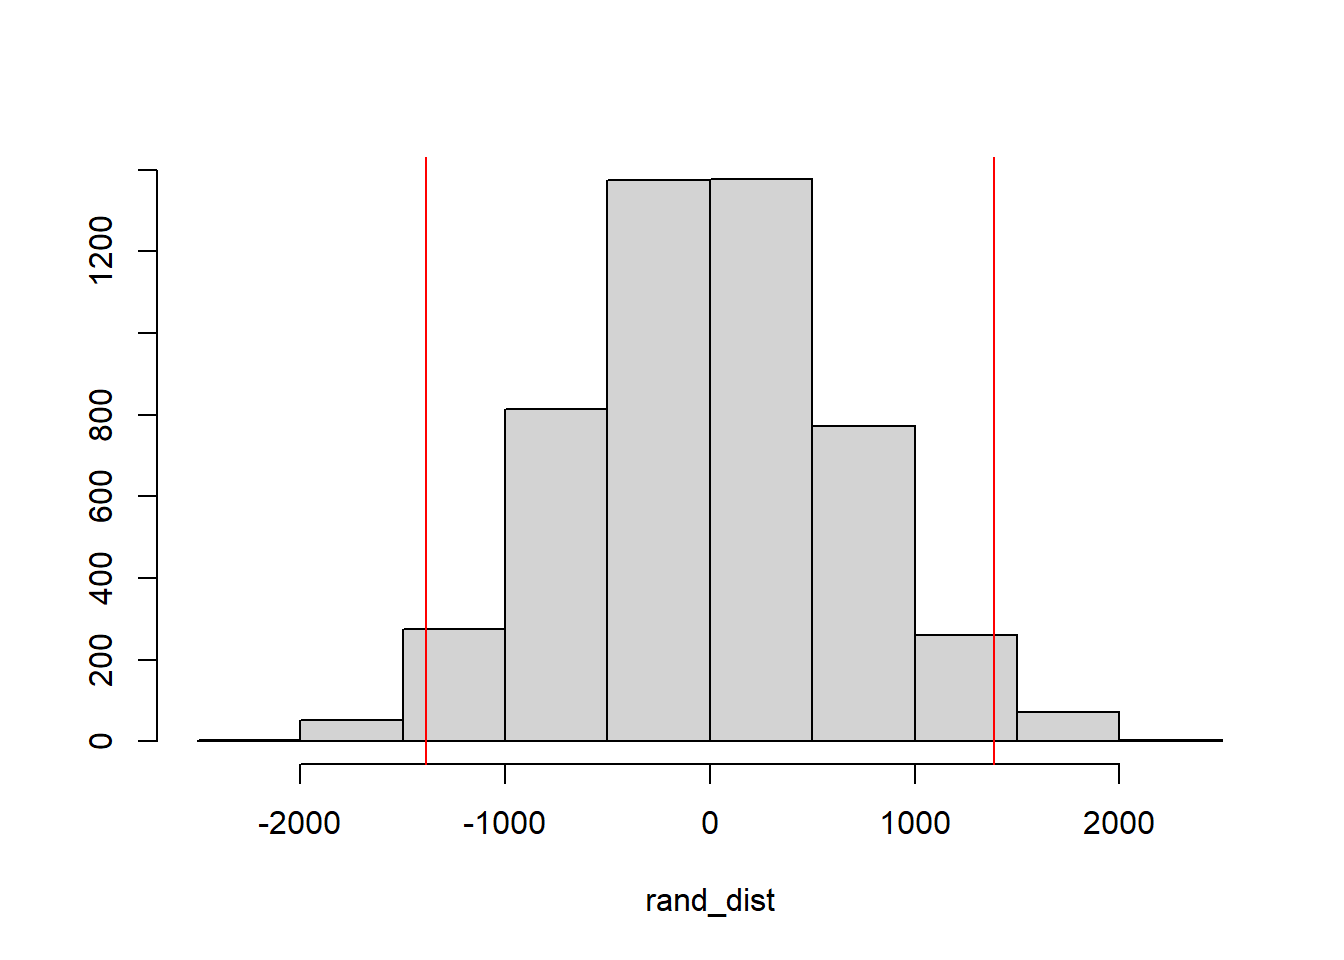
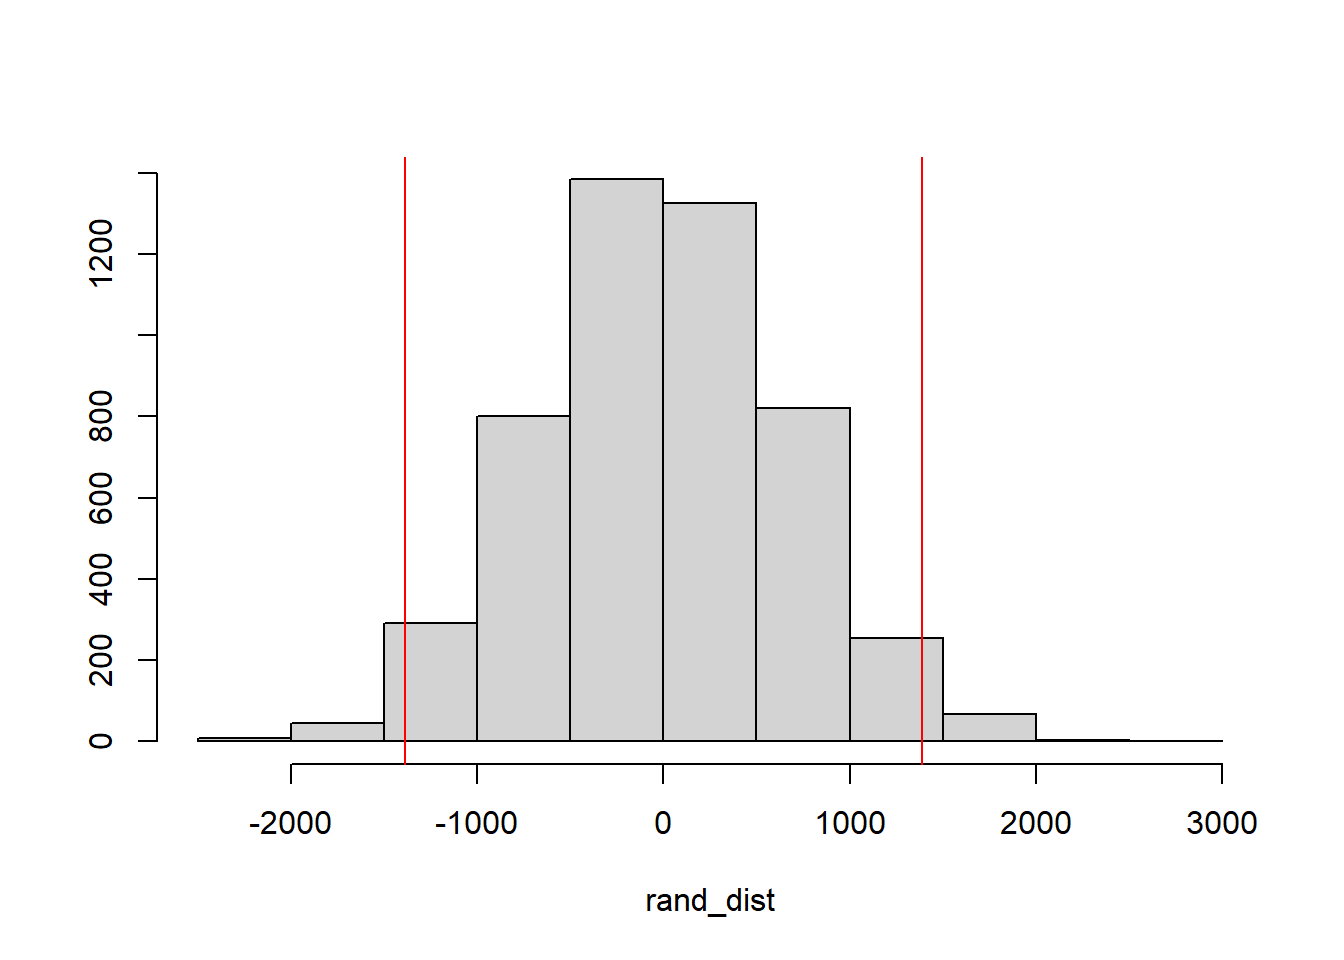
change website color

diff --git a/project/project2.html b/project/project2.html
@@ -151,7 +151,7 @@ rand_dist[i]&lt;-mean(new[new$sex==&quot;1&quot;,]$charges)-
 {hist(rand_dist,main=&quot;&quot;,ylab=&quot;&quot;); abline(v = c(-1387.17233389, 1387.17233389),col=&quot;red&quot;)}</code></pre>
 <p><img src="public/project/project2_files/figure-html/unnamed-chunk-3-1.png" width="672" style="display: block; margin: auto;" /></p>
 <pre class="r"><code>mean(rand_dist&gt;1387.17233389 | rand_dist&lt; -1387.17233389)</code></pre>
-<pre><code>## [1] 0.0404</code></pre>
+<pre><code>## [1] 0.0388</code></pre>
 <p>For my randomization test I decided to test if there was a mean difference in charges on a patients medical bill based on sex. My null hypothesis is that there is no mean difference between the medical bill charges of a female and male. My alternative hypothesis is that there is a mean difference between the medical bill charges of a female and male. I found that female patients have a mean charge of 1387.17 lower than male patients charges.</p>
 <p>I then created a histogram showing the mean differences after randomization (null hypothesis plot) and also added on vertical lines to represent the mean difference (test statistic) between females and males. The resulting p value (p = 0.0352) after randomzation indicates that I can reject the null hypothesis to conclude that there is a significant mean difference between the medical charges of females and males.</p>
 </div>
